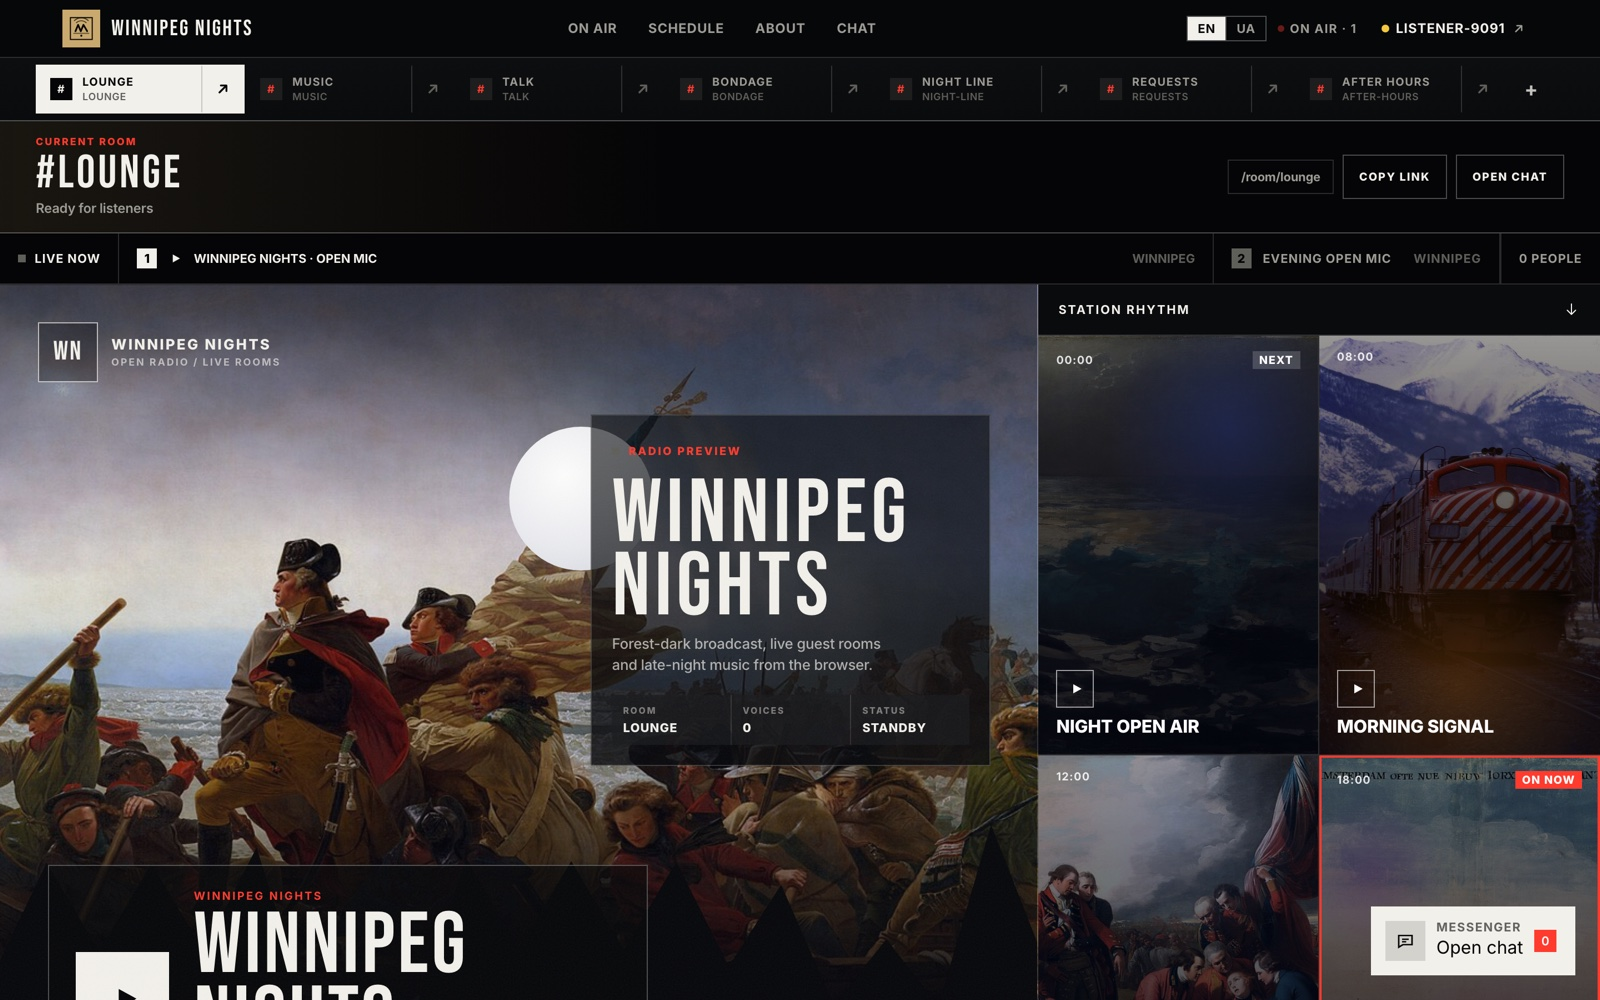
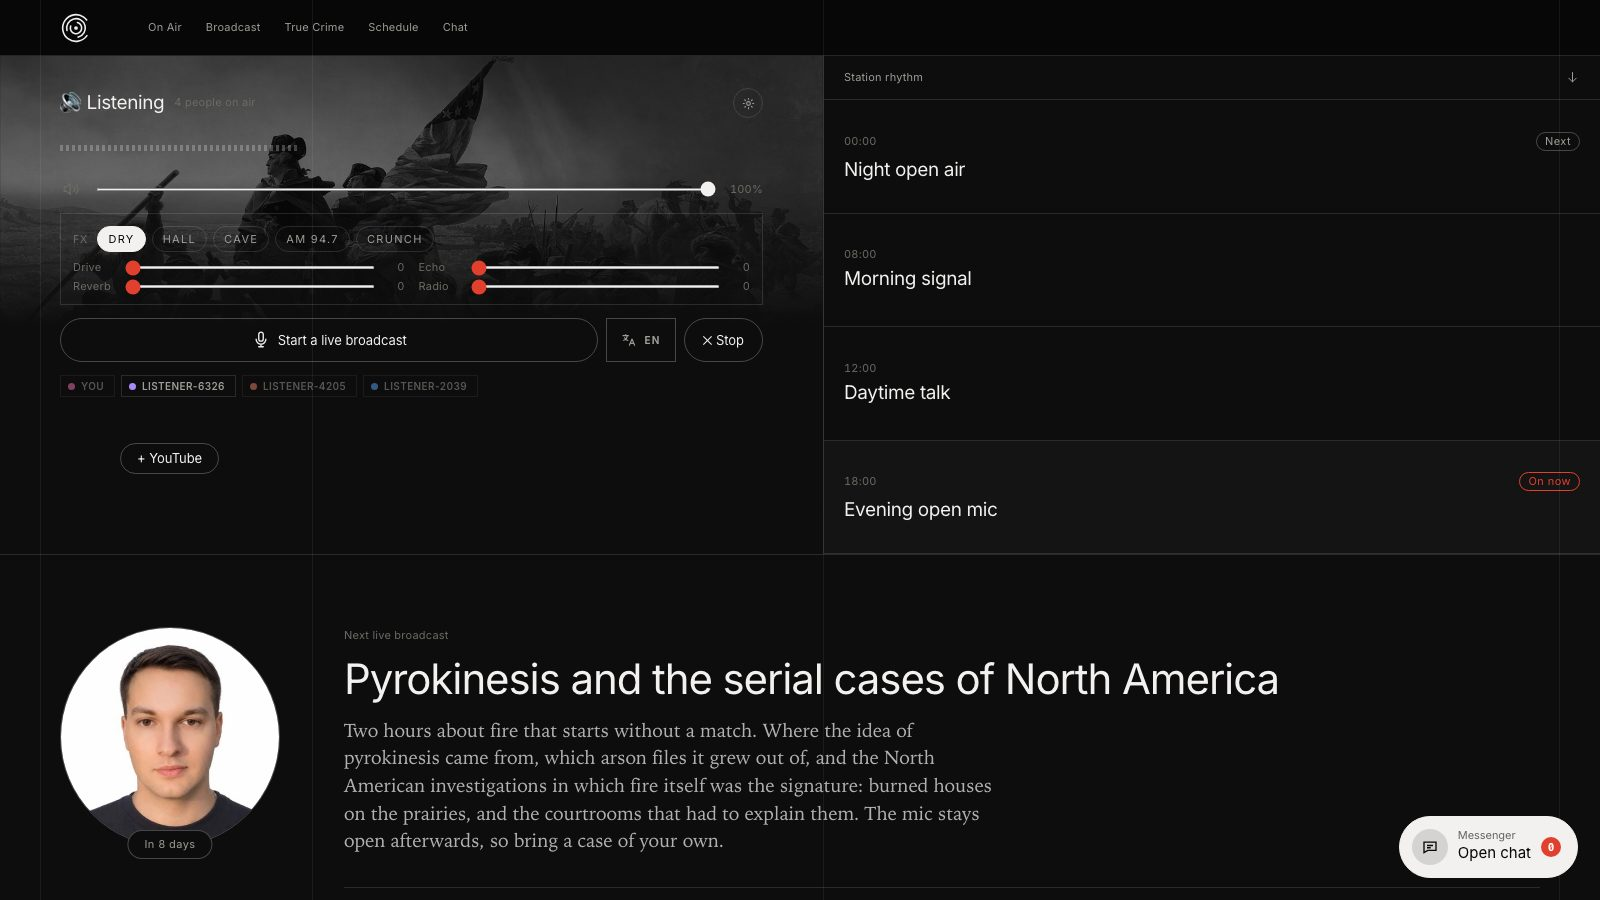
Add Winnipeg Nights and Museum of Donetsk Photography to Applied systems practice, refresh screenshots

diff --git a/index.html b/index.html
@@ -196,10 +196,10 @@
       </a>
 
       <a class="feat" href="https://teached.tech/" target="_blank" rel="noopener">
-        <div class="shot"><img src="images/works/teached.jpg" alt="TeachEd" width="1100" height="687" decoding="async"></div>
+        <div class="shot"><img src="images/works/teached.jpg" alt="TeachEd" width="1600" height="900" decoding="async"></div>
         <div class="role mono">Learning systems · product and technology</div>
         <h3>TeachEd</h3>
-        <p>A language-teaching workspace that converts planning materials, video and vocabulary into structured classroom objects. The system treats a lesson as an editable sequence of tasks, constraints and outputs rather than a static worksheet: teachers can compose, revise, share and re-use material across boards, exercises and follow-up work. I lead the product model, architecture and release process.</p>
+        <p>A language-teaching workspace that converts planning materials, video and vocabulary into structured classroom objects. A lesson is an editable sequence of tasks, constraints and outputs rather than a static worksheet: boards, generated worksheets, YouTube turned into class material and more than thirty classroom games share one data model, so material composed once can be revised, shared and re-run online or on paper. I lead the product model, architecture and release process.</p>
         <div class="meta mono"><span class="t">teached.tech</span><span>↗</span></div>
       </a>
 
@@ -219,6 +219,22 @@
         <div class="meta mono"><span class="t">eprisjournal.com</span><span>↗</span></div>
       </a>
 
+      <a class="feat" href="https://radio.munister.com.ua/" target="_blank" rel="noopener">
+        <div class="shot"><img src="images/works/radio.jpg" alt="Winnipeg Nights radio" width="1600" height="900" loading="lazy" decoding="async"></div>
+        <div class="role mono">Real-time media · session coordination</div>
+        <h3>Winnipeg Nights</h3>
+        <p>A night station built as a study in low-friction live audio. One source distributes sound over WebRTC to many listeners, who never grant microphone access; session state is coordinated through a polling data layer instead of a dedicated signalling service, so the architecture stays inspectable on modest infrastructure. Around the live hour sit a self-refreshing North American true-crime feed and on-the-fly speech translation, both running on the same single-core host.</p>
+        <div class="meta mono"><span class="t">radio.munister.com.ua</span><span>↗</span></div>
+      </a>
+
+      <a class="feat" href="https://062.dn.ua/" target="_blank" rel="noopener">
+        <div class="shot"><img src="images/works/donetsk-museum.jpg" alt="Museum of Donetsk Photography" width="1600" height="900" loading="lazy" decoding="async"></div>
+        <div class="role mono">Public archive · collection and interface</div>
+        <h3>Museum of Donetsk Photography</h3>
+        <p>A photographic museum of a city that can now only be walked through in pictures. Over four hundred images are gathered, de-duplicated and passported through a three-stage pipeline, then hung across eight halls, including one built from freely licensed work by other photographers. Readers can submit their own frames: intake, size limits and re-encoding are handled by a separate service, so the archive grows without opening the site to unchecked uploads.</p>
+        <div class="meta mono"><span class="t">062.dn.ua</span><span>↗</span></div>
+      </a>
+
     </div>
   </section>
 
@@ -229,7 +245,7 @@
         <span class="mono eyebrow">Munister / Systems register</span>
         <h2>Applied systems and prototypes</h2>
       </div>
-      <p class="sec-note">Six further implementations. Each addresses a specific operational constraint through data modelling, computational logic or infrastructure design.</p>
+      <p class="sec-note">Five further implementations. Each addresses a specific operational constraint through data modelling, computational logic or infrastructure design.</p>
     </div>
     <div class="ledger">
 
@@ -258,13 +274,6 @@
         <span class="name">AM Publishing</span>
         <span class="role mono">Publishing operations · distributed services</span>
         <span class="what">A publication platform designed to keep editorial metadata independent from sales channels. Each title holds a maintained offer set instead of one hard-coded retailer, so regional availability can change without rewriting the publication. The frontend stays static and auditable; transactional checkout and the radio service are separated into purpose-built services, reducing coupling between catalogue, payment and streaming operations.</span>
-        <span class="arrow mono">↗</span>
-      </a>
-
-      <a class="row" href="https://radio.munister.com.ua" target="_blank" rel="noopener">
-        <span class="name">Radio Winnipeg</span>
-        <span class="role mono">Real-time media · session coordination</span>
-        <span class="what">A low-friction WebRTC broadcast experiment: one source distributes audio to many listeners while receivers never need microphone permission. Session state is coordinated through a polling data layer rather than a dedicated signalling service, which makes the architecture inspectable and deployable with modest infrastructure. Guest identities and room-level now-playing state test how shared listening can remain synchronous without forcing account creation.</span>
         <span class="arrow mono">↗</span>
       </a>
 
